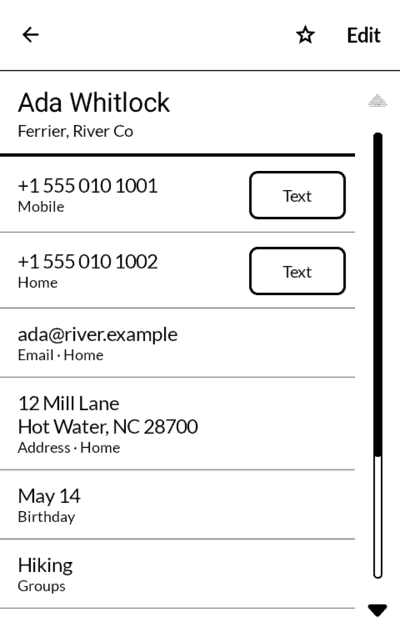
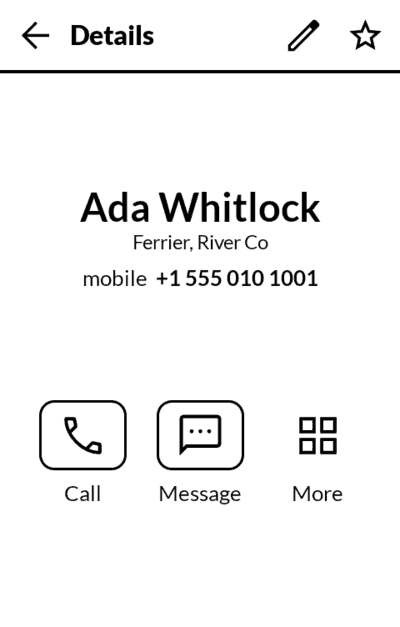
Contacts card: its new look

diff --git a/index.html b/index.html
@@ -192,11 +192,11 @@ so nothing animates and every page can be read in sunlight.</p>
 
 <div class="app" id="enishi">
   <img class="shot" src="shots/enishi.png" width="400" height="627" loading="lazy"
-       alt="A person in Contacts: each number with Text beside it, then email, address and birthday">
+       alt="A person in Contacts: the name large, the number under it, and Call, Message and More">
   <h4>Contacts <span class="jp">/ 縁 enishi</span></h4>
-  <p>Everyone you know, filed by letter: a press on a number calls it, the word beside it
-  texts it. <a href="#kotozute">Messaging</a> and <a href="#tayori">Email</a> reach it for every
-  contact they need.</p>
+  <p>Everyone you know, drawn like the phone's own address book: Call and Message under every
+  name, the rest a press away. <a href="#kotozute">Messaging</a> and <a href="#tayori">Email</a>
+  reach it for every contact they need.</p>
   <p class="links">
     <a href="https://github.com/wanderwildwood/enishi/releases/latest/download/enishi.apk">Download</a>
     <a href="https://github.com/wanderwildwood/enishi">Source</a>
